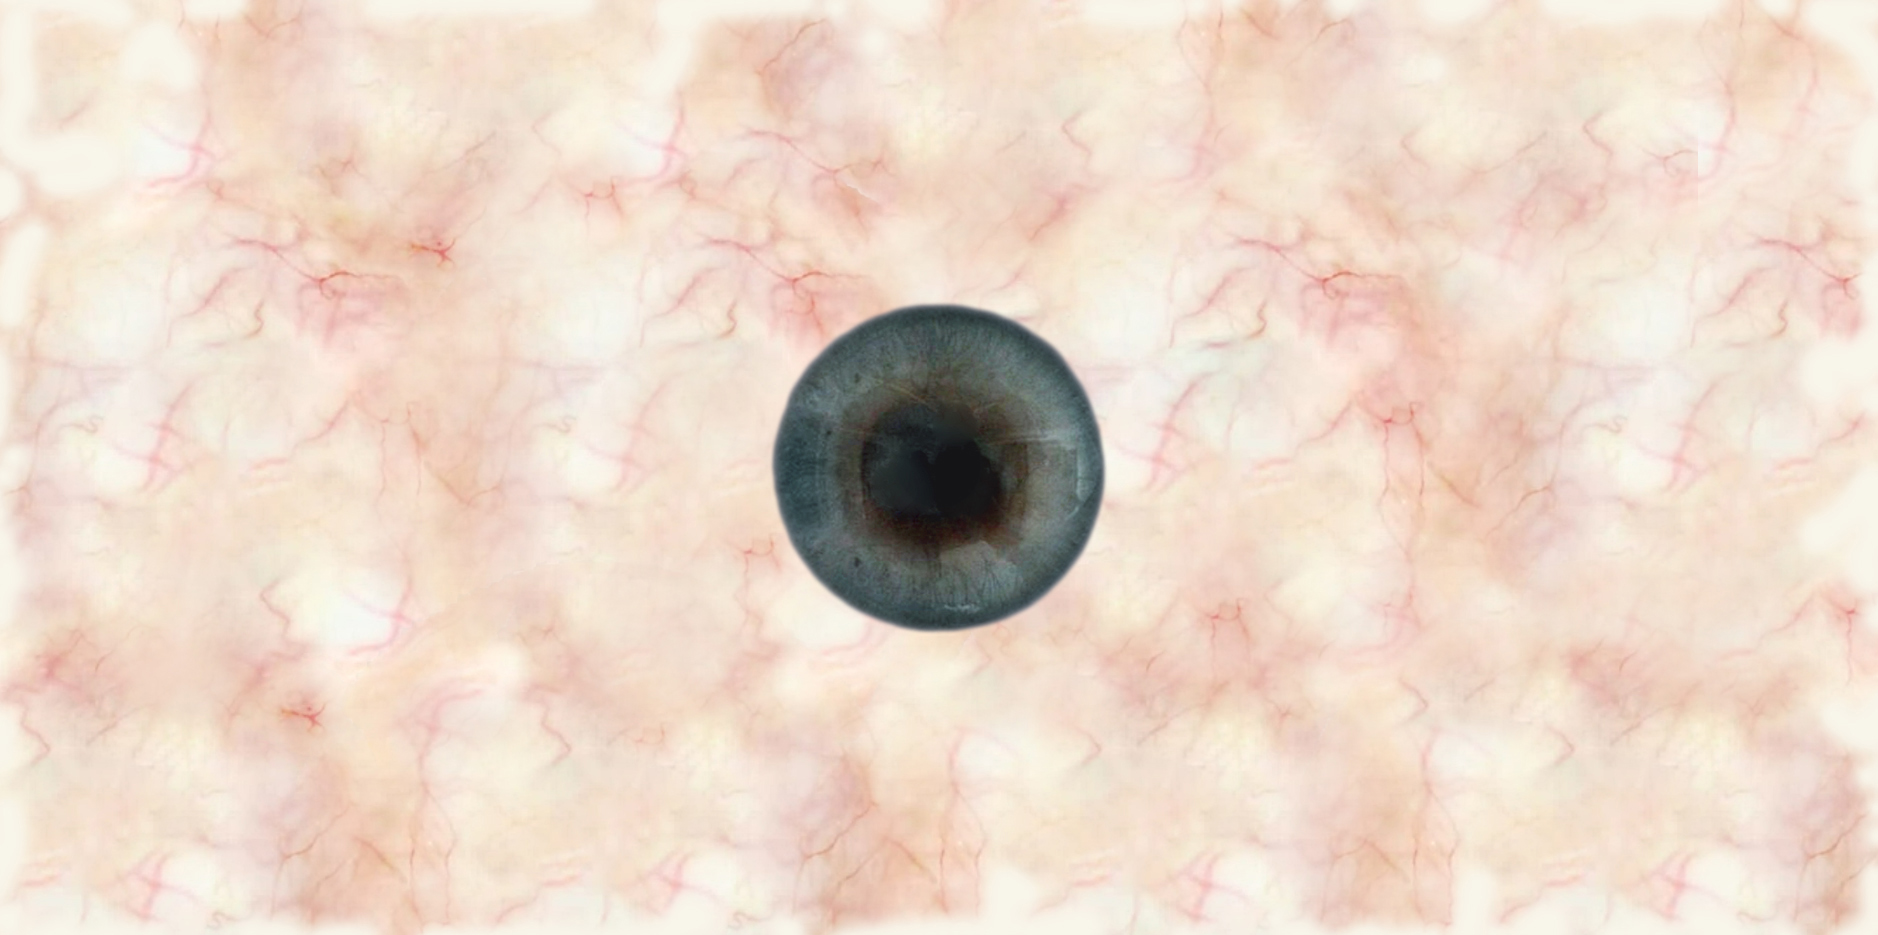
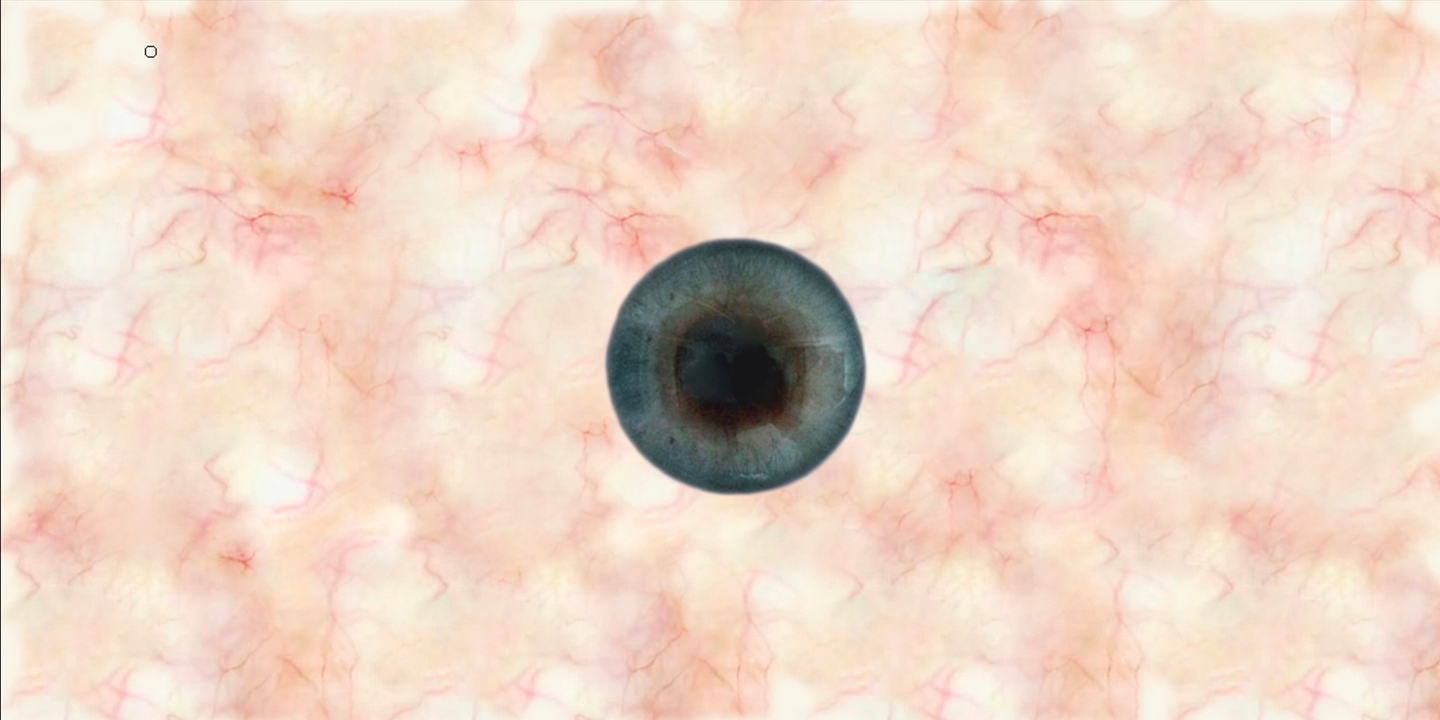
Update 157

diff --git a/GAME157-Graphics/index.html b/GAME157-Graphics/index.html
@@ -113,6 +113,7 @@
     
 <p>
 <h3><a class="nav" href="assignment1.html">Assignment 1</a>: worth 20% overall grade. due:  Friday the 13th of this month. Procrastinate tomorrow</h3>
+<h3><a class="nav" href="assignment2.html">Assignment 2</a>: worth 20% overall grade. due:  soon</h3>
 </p>
 
 </body>
